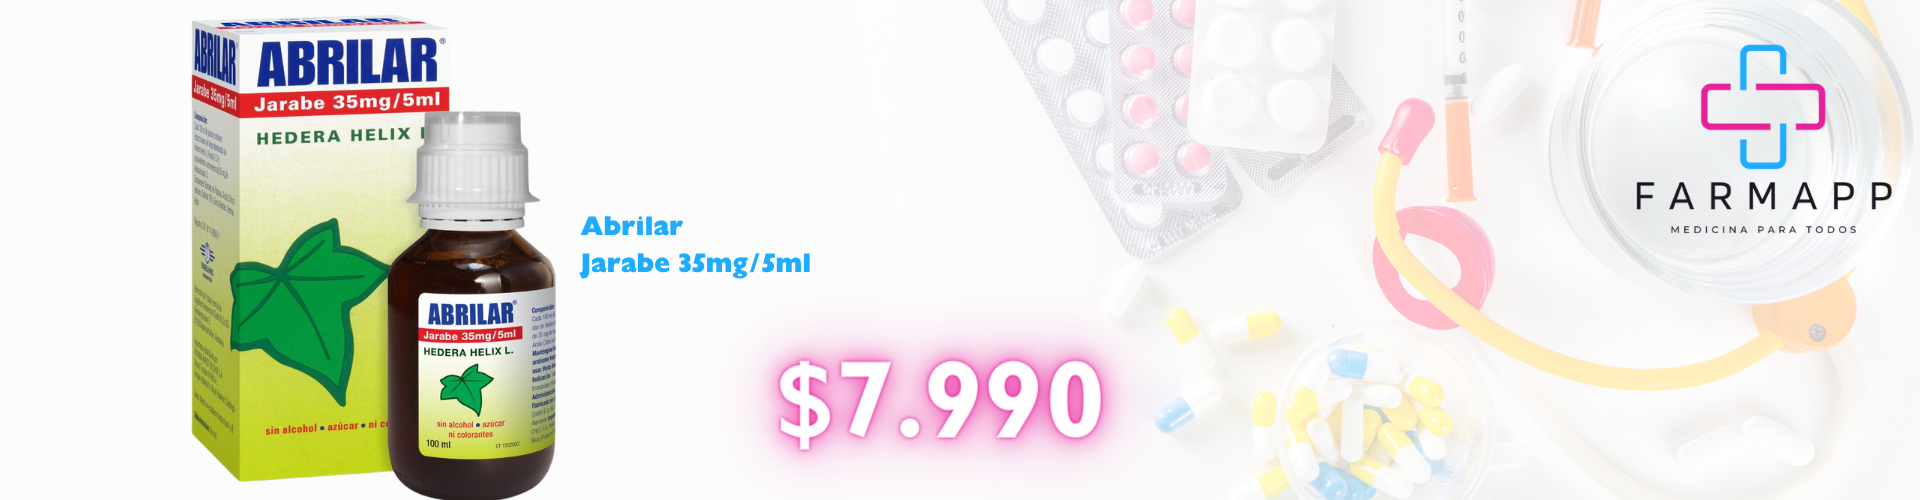
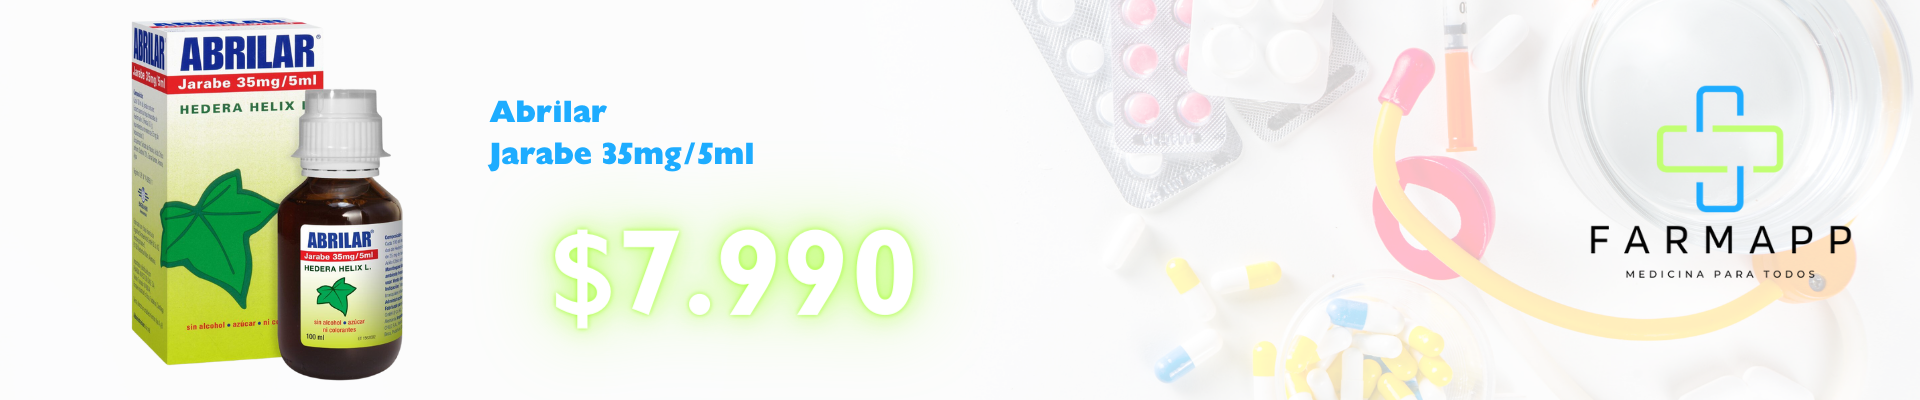
pagina actualizada

diff --git a/form-cli.html b/form-cli.html
@@ -33,10 +33,10 @@
 
     </nav>
     <div class="banner mb-3">
-        <img src="/img/banner-contacto.png" alt="imagen portada">
+        <img src="/img/BannerContacto.png" alt="imagen portada">
     </div>
     <div class="container">
-        <div class="header-top-banner position-relative" style="background-color: #E6209A;">
+        <div class="header-top-banner position-relative" style="background-color: #C1FF72;">
             <div class="container-head">
                 <div class="topbanner d-flex justify-content-between align-items-center" style="height: 40px;"></div>
             </div>
@@ -46,7 +46,7 @@
         <div class="row justify-content-center mt-5">
             <div class="col-5">
                 <h1 class="tittle-form text-center mb-5">Sugerencia Cliente</h1>
-                <form class="col p-5" id="form-contact" style="background-color: #f7c9e5;">
+                <form class="col p-5" id="form-contact" style="background-color: #e6ffc6;">
                     <div class="form-group">
                         <label class="form-group" for="Nombre de usuario">Indique su nombre*</label>
                         <input type="text" class="form-control" placeholder="Ignacio Valenzuela" autofocus required>

diff --git a/index.html b/index.html
@@ -41,7 +41,7 @@
         
     </nav>
     <div class="banner">
-      <img src="img/banner 2.png " alt="imagen portada">
+      <img src="img//BannerIndex.png " alt="imagen portada">
     </div>
     <div class="presentacion">
       <div class="row">
@@ -58,7 +58,7 @@
     <div id="carrusel" class="carousel slide" data-ride="carousel">
       <div class="carousel-inner">
         <div class="carousel-item active">
-          <img src="/img/carruselGeniol.png" class="d-block w-100" alt="oferta1">
+          <img src="/img/BannerGeniol.png" class="d-block w-100" alt="oferta1">
         </div>
         <div class="carousel-item">
           <img src="/img/BannerAbrilar.png" class="d-block w-100" alt="oferta2">

diff --git a/form-NE.html b/form-NE.html
@@ -34,10 +34,10 @@
 
     </nav>
     <div class="banner mb-3">
-        <img src="/img/banner-contacto.png" alt="imagen portada">
+        <img src="/img/BannerContacto.png" alt="imagen portada">
       </div>
     <div class="container">
-        <div class="header-top-banner position-relative" style="background-color: #E6209A;">
+        <div class="header-top-banner position-relative" style="background-color: #C1FF72;">
             <div class="container-head">
                 <div class="topbanner d-flex justify-content-between align-items-center" style="height: 40px;"></div>
             </div>

diff --git a/contacto.html b/contacto.html
@@ -34,10 +34,10 @@
 
     </nav>
     <div class="banner mb-3">
-        <img src="/img/banner-contacto.png" alt="imagen portada">
+        <img src="/img/BannerContacto.png" alt="BannerContact">
       </div>
     <div class="container">
-        <div class="header-top-banner position-relative" style="background-color: #E6209A;">
+        <div class="header-top-banner position-relative" style="background-color: #C1FF72;">
             <div class="container-head">
                 <div class="topbanner d-flex justify-content-between align-items-center" style="height: 40px;"></div>
             </div>

diff --git a/form-NC.html b/form-NC.html
@@ -34,10 +34,10 @@
     </nav>
 
     <div class="banner mb-3">
-        <img src="/img/banner-contacto.png" alt="imagen portada">
+        <img src="/img/BannerContacto.png" alt="imagen portada">
     </div>
     <div class="container">
-        <div class="header-top-banner position-relative" style="background-color: #E6209A;">
+        <div class="header-top-banner position-relative" style="background-color: #C1FF72;">
             <div class="container-head">
                 <div class="topbanner d-flex justify-content-between align-items-center" style="height: 40px;"></div>
             </div>

diff --git a/style.css b/style.css
@@ -36,7 +36,7 @@ a{
 
 .carousel-control-prev-icon{
     
-    background-color: #E6209A;
+    background-color: #C1FF72;
     padding: 15px;
     border-radius: 100%;
 }
@@ -53,7 +53,7 @@ footer{
 }
 
 .card-link {
-    color: #E6209A;
+    color: #C1FF72;
 }
 
 h6{
@@ -70,7 +70,7 @@ h1{
 p{
     text-align: start;
     margin-bottom: 20px;
-    color: #E6209A;
+    color: #C1FF72;
     font-size: 20px;
 }
 

diff --git a/nosotros.css b/nosotros.css
@@ -8,12 +8,12 @@ h1{
 p{
     text-align: center;
     margin-bottom: 50px;
-    color: #E6209A;
+    color: #C1FF72;
     font-size: 20px;
 }
 
 .container{
-    box-shadow: 4px 4px 8px 1px #1DACFF, -4px -4px 8px 1px #E6209A;
+    box-shadow: 4px 4px 8px 1px #1DACFF, -4px -4px 8px 1px #C1FF72;
     justify-content: center;
     padding: 100px;
     border-radius: 40px;

diff --git a/nosotros.html b/nosotros.html
@@ -34,7 +34,7 @@
 
     </nav>
     <div class="banner mb-3">
-      <img src="/img/banner-nosotros.png" alt="imagen portada">
+      <img src="/img/BannerNosotros.png" alt="imagen portada">
     </div>
     <div class="container">
       <div class="row mb-5 justify-content-center">

diff --git a/productos.html b/productos.html
@@ -35,7 +35,7 @@
     </nav>
    
     <div class="banner mb-3 " style="height:300px;">
-      <img src="/img/banner-producto.png" alt="imagen productos">
+      <img src="/img/BannerProductos.png" alt="imagen productos">
   </div>
   
 <!--1 medicamento-->

diff --git a/form.cli.css b/form.cli.css
@@ -20,7 +20,7 @@ form{
 
 .btn{
     font-size: 20px;
-    box-shadow: 4px 4px 8px 1px #1DACFF, -4px -4px 8px 1px #E6209A;
+    box-shadow: 4px 4px 8px 1px #1DACFF, -4px -4px 8px 1px #C1FF72;
     background-color: white;
     
 }

diff --git a/form-NC.css b/form-NC.css
@@ -13,6 +13,6 @@ label{
 
 .btn{
     font-size: 20px;
-    box-shadow: 4px 4px 8px 1px #1DACFF, -4px -4px 8px 1px #E6209A;
+    box-shadow: 4px 4px 8px 1px #1DACFF, -4px -4px 8px 1px #C1FF72;
     background-color: white;
 }

diff --git a/contacto.css b/contacto.css
@@ -22,5 +22,5 @@ h1{
 
 .btn{
     font-size: 25px;
-    box-shadow: 4px 4px 8px 1px #1DACFF, -4px -4px 8px 1px #E6209A;
+    box-shadow: 4px 4px 8px 1px #1DACFF, -4px -4px 8px 1px #C1FF72;
 }
